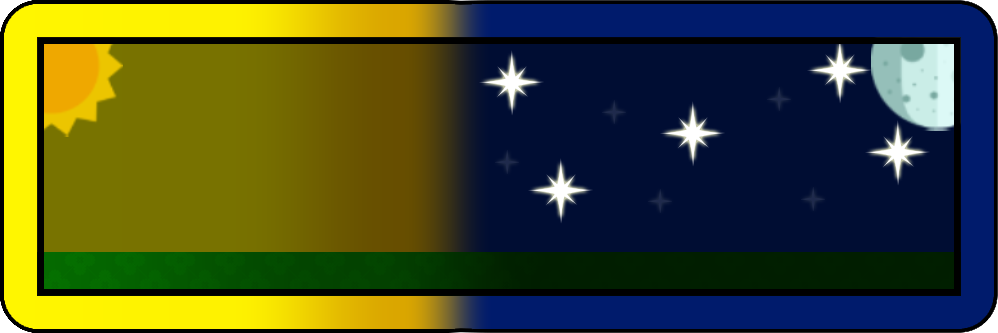
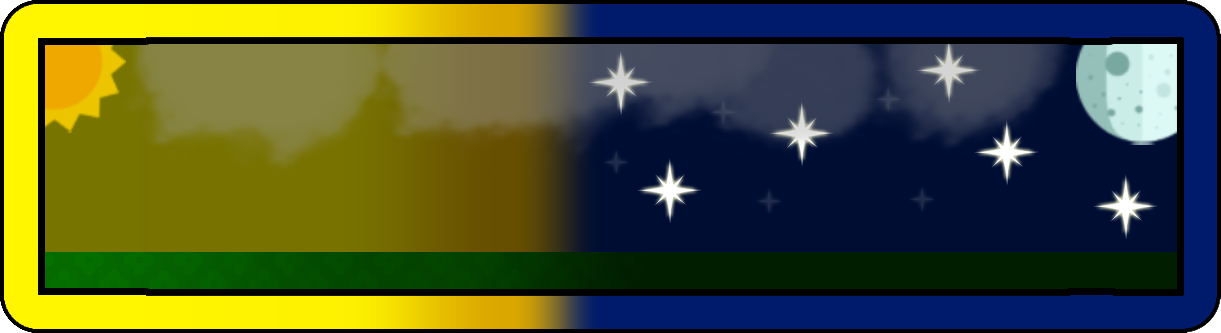
Day & Night Bar
Implemented day and night bar

diff --git a/SGAI_MK3/Dylan.py b/SGAI_MK3/Dylan.py
@@ -12,6 +12,16 @@ pygame.display.set_caption("Sus")
 day = pygame.transform.scale(pygame.image.load(r'Assets\\UI\\Backgrounds\\SunBackground.png'), (size.x, size.y))
 noon = pygame.transform.scale(pygame.image.load(r'Assets\\UI\\Backgrounds\\SunDownBackground.png'), (size.x, size.y))
 night = pygame.transform.scale(pygame.image.load(r'Assets\\UI\\Backgrounds\\MoonBackground.png'), (size.x, size.y))
+dayProgressBarHeight = size.y * 0.06
+dayProgress = pygame.image.load(r'Assets\\UI\\DayProgressBar.png')
+dayProgress = pygame.transform.scale(dayProgress, (dayProgress.get_width() / dayProgress.get_height() * dayProgressBarHeight, dayProgressBarHeight))
+dayProgressPos = (size.x * (1 - 0.13) - dayProgress.get_width(), size.y * (1 - 0.005) - dayProgress.get_height())
+dayProgressBorderSize = 0.13
+dayProgressBorderSize = (dayProgressBorderSize * dayProgress.get_height() / dayProgress.get_width(), dayProgressBorderSize)
+dayProgressRectWidth = 3
+dayProgressRectBounds = dayProgressBorderSize[0] * dayProgress.get_width()
+dayProgressRectBounds = (dayProgressPos[0] + dayProgressRectBounds + 1, dayProgressPos[0] + dayProgress.get_width() - dayProgressRectBounds - dayProgressRectWidth + 1)
+dayProgressRect = pygame.Rect(dayProgressRectBounds[1], dayProgressPos[1] + dayProgress.get_height() * dayProgressBorderSize[1] + 0.5, dayProgressRectWidth, dayProgress.get_height() * (1 - dayProgressBorderSize[1] * 2) + 0.5)
 turn = 0
 cycleLen = 10
 noonLength = 2
@@ -19,6 +29,7 @@ mainLoop = True
 while mainLoop:
     turn = int((time. process_time() - start))
     display_surface.fill(constants.WHITE)
+    #######
     if(turn % cycleLen < cycleLen/2):
         if(turn % cycleLen > cycleLen/2 - 1 - noonLength):
             display_surface.blit(noon, (0, 0))
@@ -26,6 +37,12 @@ while mainLoop:
             display_surface.blit(day, (0, 0))
     else:
         display_surface.blit(night, (0, 0))
+    #######
+    display_surface.blit(dayProgress, dayProgressPos)
+    ratio = (turn % (cycleLen)) / (cycleLen - 1)
+    dayProgressRect.left = dayProgressRectBounds[0] * (1 - ratio) + dayProgressRectBounds[1] * ratio
+    pygame.draw.rect(display_surface, (255, 255, 255), dayProgressRect)
+    #######
     for event in pygame.event.get():
         if event.type == pygame.QUIT:
             mainLoop = False
